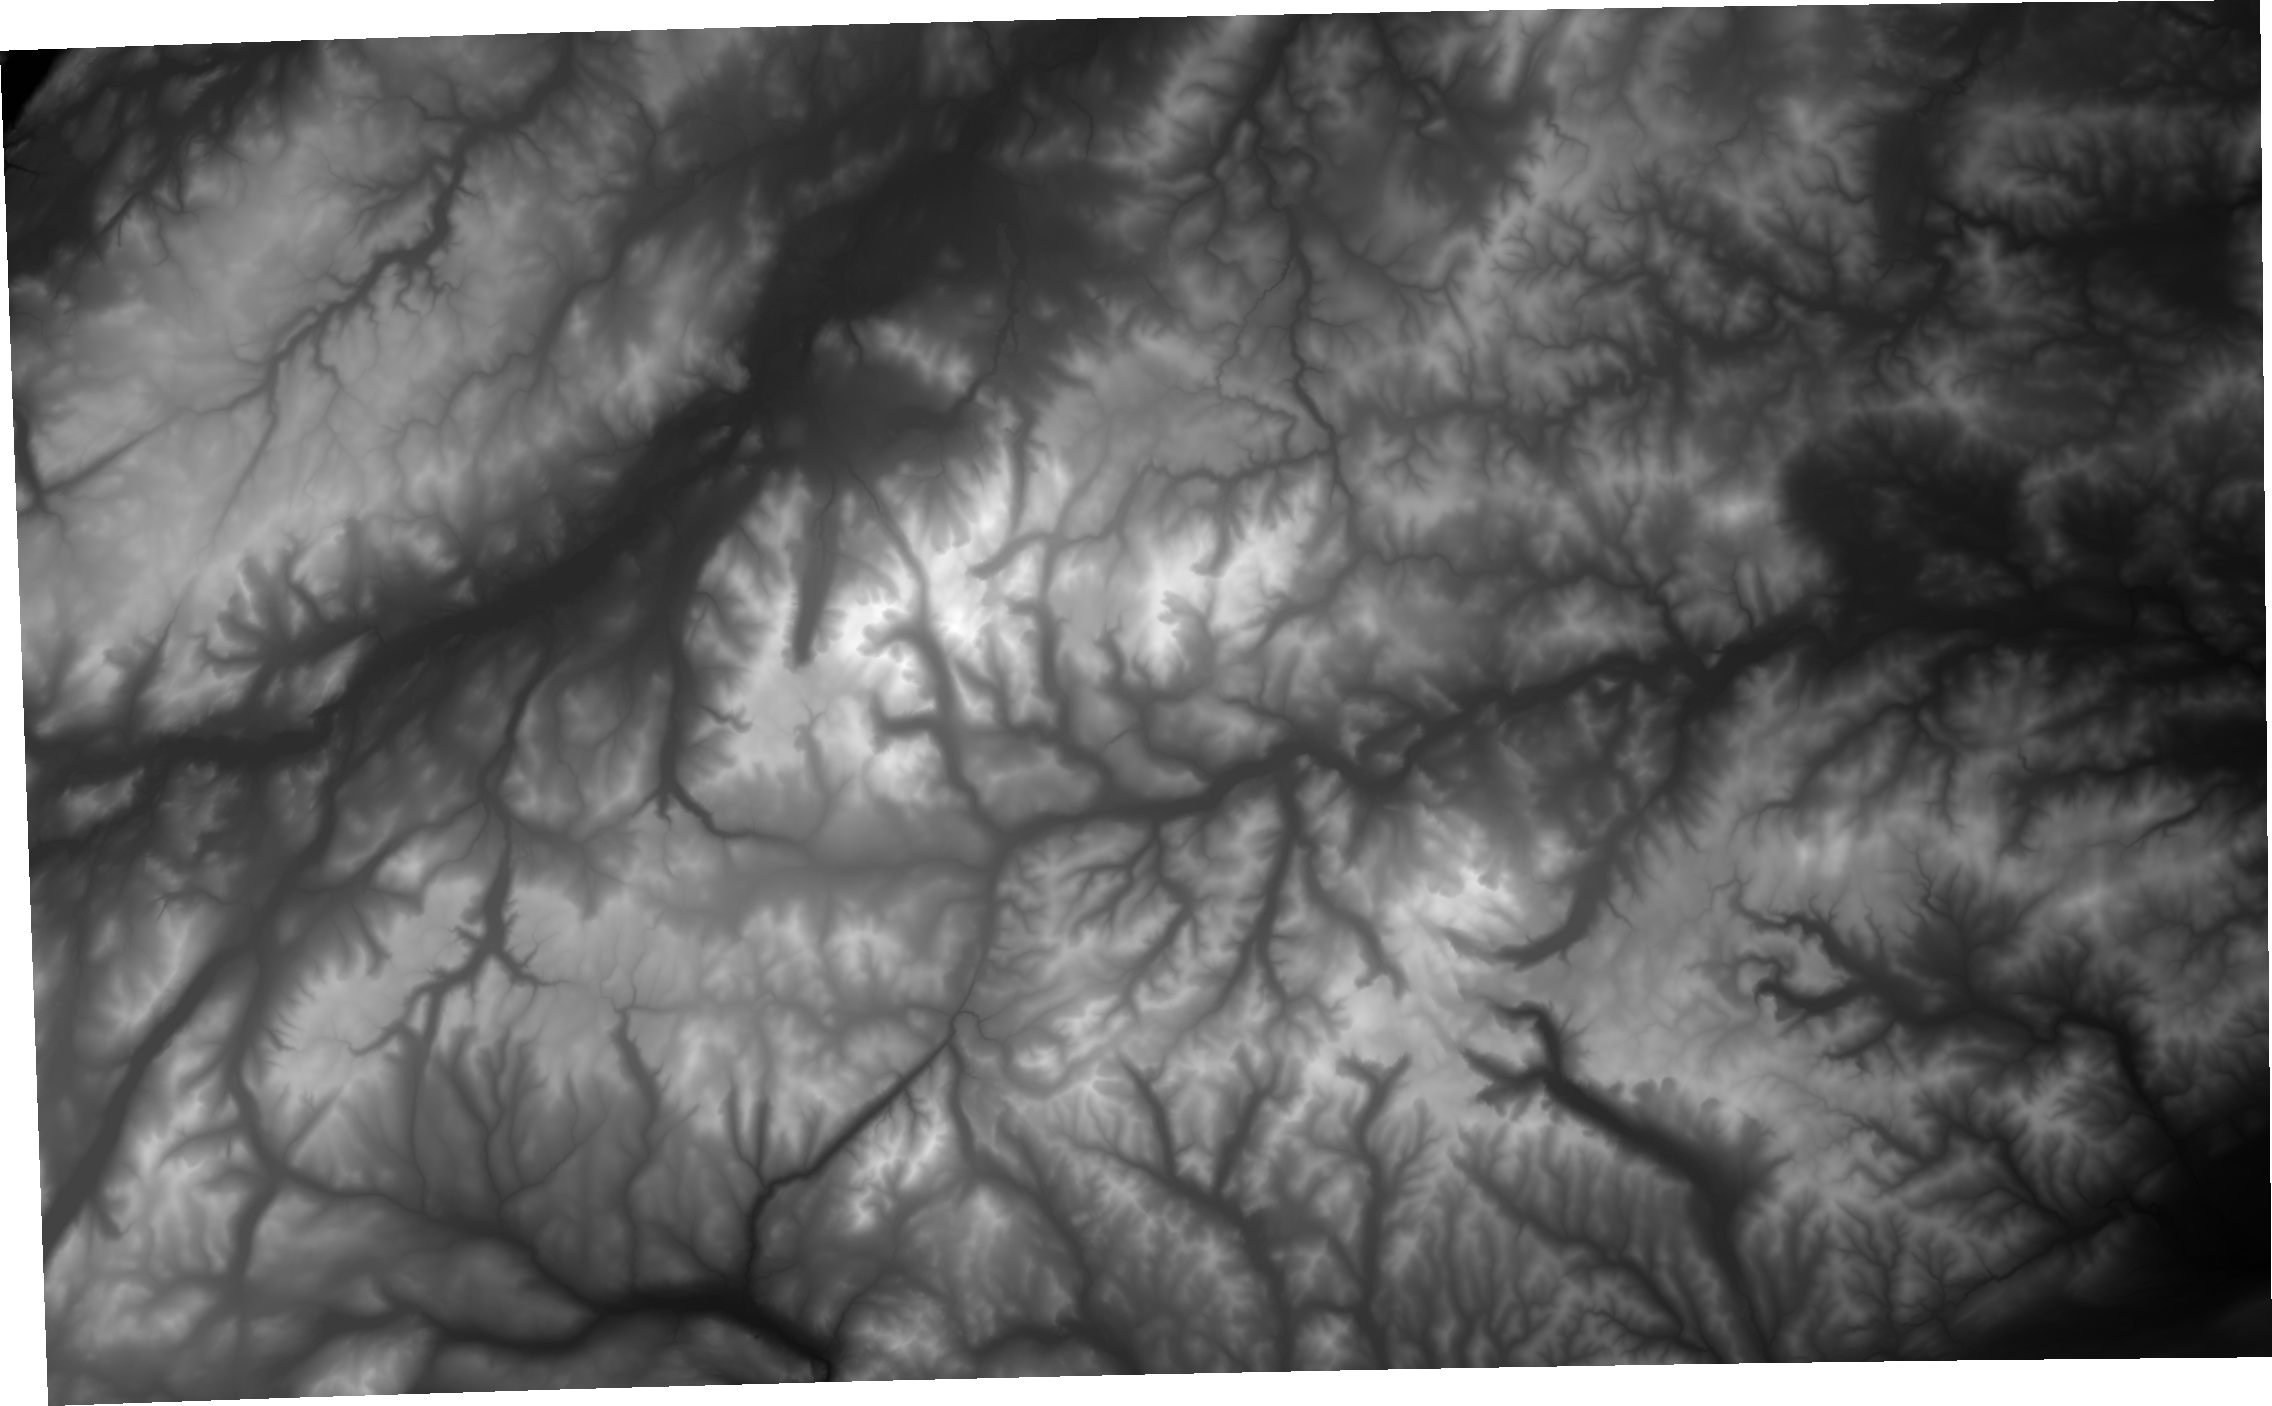
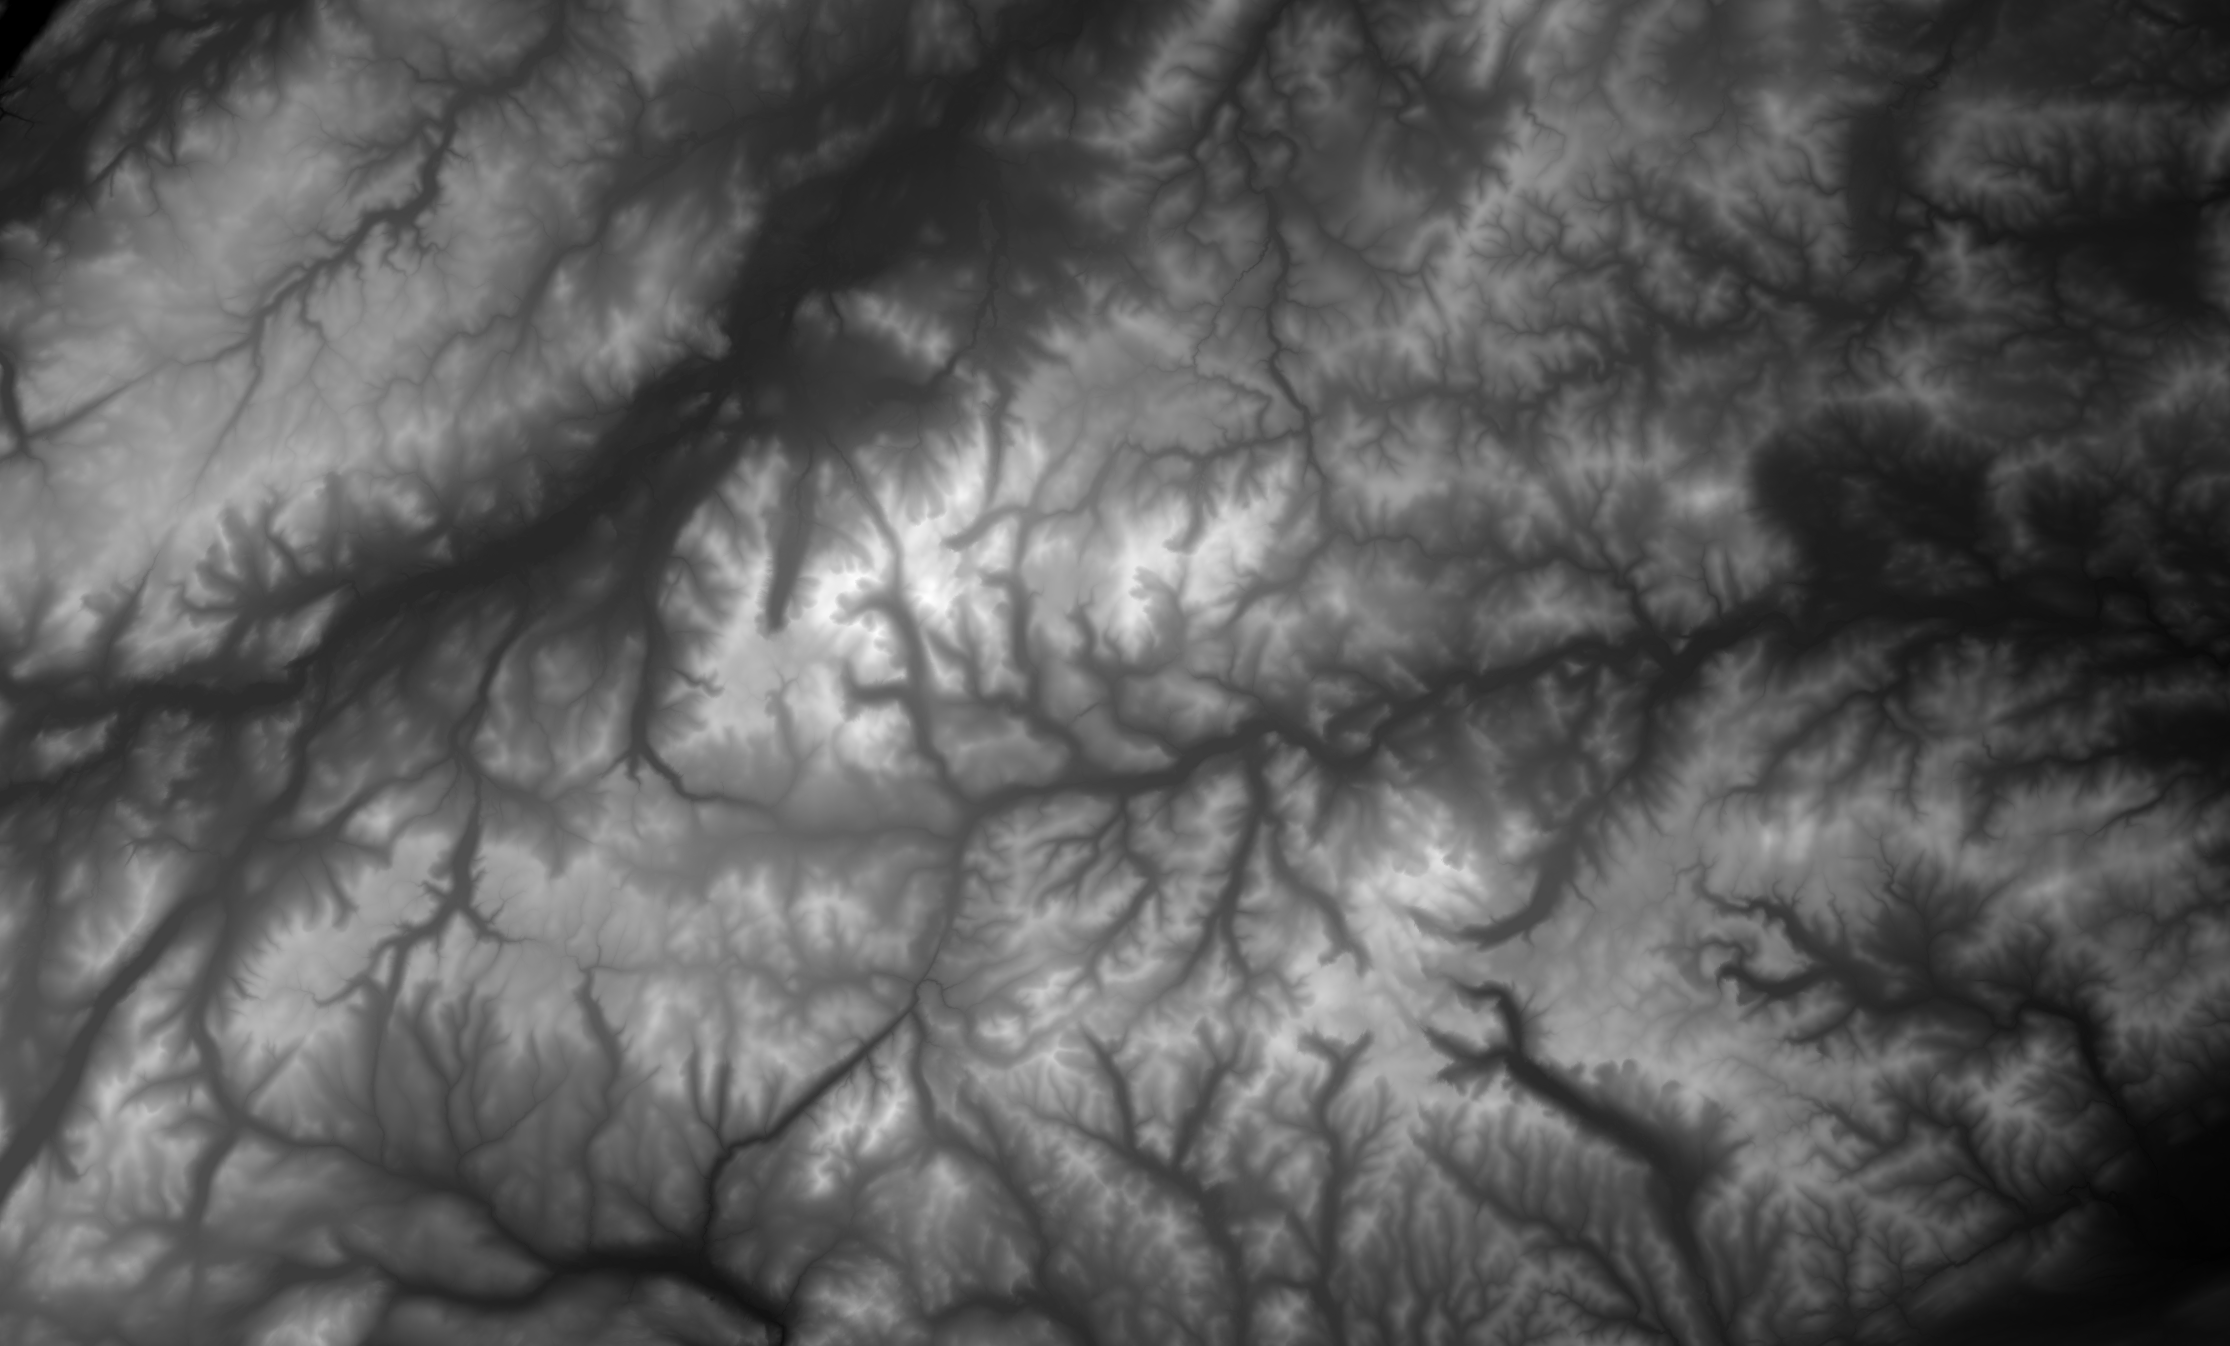
updated GIS

diff --git a/assets/maps/layers/layers.js b/assets/maps/layers/layers.js
@@ -1,3 +1,5 @@
+ol.proj.proj4.register(proj4);
+ol.proj.get("EPSG:27700").setExtent([272156.585654, 772737.590222, 342594.302423, 814241.967242]);
 var wms_layers = [];
 
 
@@ -20,14 +22,14 @@ var lyr_DEM_1 = new ol.layer.Image({
                             source: new ol.source.ImageStatic({
                                url: "./layers/DEM_1.png",
     attributions: ' ',
-                                projection: 'EPSG:3857',
+                                projection: 'EPSG:27700',
                                 alwaysInRange: true,
-                                imageExtent: [-495530.346777, 7703554.704588, -288338.519184, 7831727.440007]
+                                imageExtent: [252500.000000, 761550.000000, 364000.000000, 828850.000000]
                             })
                         });
 var format_Rivers_2 = new ol.format.GeoJSON();
 var features_Rivers_2 = format_Rivers_2.readFeatures(json_Rivers_2, 
-            {dataProjection: 'EPSG:4326', featureProjection: 'EPSG:3857'});
+            {dataProjection: 'EPSG:4326', featureProjection: 'EPSG:27700'});
 var jsonSource_Rivers_2 = new ol.source.Vector({
     attributions: ' ',
 });
@@ -48,9 +50,9 @@ var lyr_HPA2_3 = new ol.layer.Image({
                             source: new ol.source.ImageStatic({
                                url: "./layers/HPA2_3.png",
     attributions: ' ',
-                                projection: 'EPSG:3857',
+                                projection: 'EPSG:27700',
                                 alwaysInRange: true,
-                                imageExtent: [-428743.160791, 7733762.471408, -372591.004949, 7786441.018531]
+                                imageExtent: [288000.000000, 777000.000000, 318000.000000, 805000.000000]
                             })
                         });
 var lyr_HPA1_4 = new ol.layer.Image({
@@ -61,14 +63,14 @@ var lyr_HPA1_4 = new ol.layer.Image({
                             source: new ol.source.ImageStatic({
                                url: "./layers/HPA1_4.png",
     attributions: ' ',
-                                projection: 'EPSG:3857',
+                                projection: 'EPSG:27700',
                                 alwaysInRange: true,
-                                imageExtent: [-453466.561710, 7720297.487609, -341348.635958, 7814682.849570]
+                                imageExtent: [275000.000000, 770000.000000, 335000.000000, 820000.000000]
                             })
                         });
 var format_sites_5 = new ol.format.GeoJSON();
 var features_sites_5 = format_sites_5.readFeatures(json_sites_5, 
-            {dataProjection: 'EPSG:4326', featureProjection: 'EPSG:3857'});
+            {dataProjection: 'EPSG:4326', featureProjection: 'EPSG:27700'});
 var jsonSource_sites_5 = new ol.source.Vector({
     attributions: ' ',
 });
@@ -89,7 +91,7 @@ lyr_sites_5.set('fieldAliases', {'site': 'site', 'easting': 'easting', 'northing
 lyr_Rivers_2.set('fieldImages', {'name1': 'TextEdit', 'identifier': 'TextEdit', 'startNode': 'TextEdit', 'endNode': 'TextEdit', 'form': 'TextEdit', 'flow': 'TextEdit', 'fictitious': 'TextEdit', 'length': 'Range', 'name2': 'TextEdit', });
 lyr_sites_5.set('fieldImages', {'site': 'TextEdit', 'easting': 'TextEdit', 'northing': 'TextEdit', 'NGR': 'TextEdit', 'visible': 'TextEdit', 'letter lab': 'TextEdit', 'map_no': 'TextEdit', });
 lyr_Rivers_2.set('fieldLabels', {'name1': 'no label', 'identifier': 'no label', 'startNode': 'no label', 'endNode': 'no label', 'form': 'no label', 'flow': 'no label', 'fictitious': 'no label', 'length': 'no label', 'name2': 'no label', });
-lyr_sites_5.set('fieldLabels', {'site': 'no label', 'easting': 'no label', 'northing': 'no label', 'NGR': 'no label', 'visible': 'no label', 'letter lab': 'no label', 'map_no': 'no label', });
+lyr_sites_5.set('fieldLabels', {'site': 'inline label - always visible', 'easting': 'no label', 'northing': 'no label', 'NGR': 'no label', 'visible': 'no label', 'letter lab': 'no label', 'map_no': 'no label', });
 lyr_sites_5.on('precompose', function(evt) {
     evt.context.globalCompositeOperation = 'normal';
 });

diff --git a/assets/maps/resources/qgis2web.js b/assets/maps/resources/qgis2web.js
@@ -81,14 +81,17 @@ var map = new ol.Map({
     overlays: [overlayPopup],
     layers: layersList,
     view: new ol.View({
-         maxZoom: 28, minZoom: 1
+         maxZoom: 28, minZoom: 1, projection: new ol.proj.Projection({
+            code: 'EPSG:27700',
+            extent: [-20037508.342789, -20037508.342789, 20037508.342789, 20037508.342789],
+            units: 'm'})
     })
 });
 
 var layerSwitcher = new ol.control.LayerSwitcher({tipLabel: "Layers"});
 map.addControl(layerSwitcher);
 
-map.getView().fit([-442068.880267, 7733912.289084, -314272.098261, 7814673.254651], map.getSize());
+map.getView().fit([272156.585654, 772737.590222, 342594.302423, 814241.967242], map.getSize());
 
 var NO_POPUP = 0
 var ALL_FIELDS = 1

diff --git a/assets/maps/styles/sites_5_style.js b/assets/maps/styles/sites_5_style.js
@@ -21,7 +21,7 @@ var style_sites_5 = function(feature, resolution){
         labelText = String(feature.get("site"));
     }
     var style = [ new ol.style.Style({
-        image: new ol.style.Circle({radius: 5.999999999999998 + size,
+        image: new ol.style.Circle({radius: 6.0 + size,
             stroke: new ol.style.Stroke({color: 'rgba(0,0,0,1.0)', lineDash: null, lineCap: 'butt', lineJoin: 'miter', width: 1.52}), fill: new ol.style.Fill({color: 'rgba(255,255,255,1.0)'})}),
         text: createTextStyle(feature, resolution, labelText, labelFont,
                               labelFill, placement, bufferColor,

diff --git a/assets/maps/index.html b/assets/maps/index.html
@@ -119,6 +119,8 @@
             </div>
         </div>
         <script src="resources/qgis2web_expressions.js"></script>
+<script src="resources/proj4.js"></script>
+        <script>proj4.defs('EPSG:27700','+proj=tmerc +lat_0=49 +lon_0=-2 +k=0.9996012717 +x_0=400000 +y_0=-100000 +ellps=airy +units=m +no_defs');</script>
         <script src="resources/polyfills.js"></script>
         <script src="./resources/functions.js"></script>
         <script src="./resources/ol.js"></script>

diff --git a/_pages/maps.md b/_pages/maps.md
@@ -5,4 +5,4 @@ layout: single
 author_profile: false
 ---
 
-<iframe src= "https://michealebutler.github.io/GISWebPortal/" width="900" height="1200" style="border:0;" allowfullscreen="" loading="lazy" referrerpolicy="no-referrer-when-downgrade"></iframe>
+<iframe src= "/assets/maps/index.html" width="900" height="1200" style="border:0;" allowfullscreen="" loading="lazy" referrerpolicy="no-referrer-when-downgrade"></iframe>

diff --git a/_pages/downloads.md b/_pages/downloads.md
@@ -1,6 +1,6 @@
 ---
-title: "Documentation"
-permalink: /documentation/
+title: "Downloads"
+permalink: /downloads/
 layout: archive
 author_profile: true
 ---
